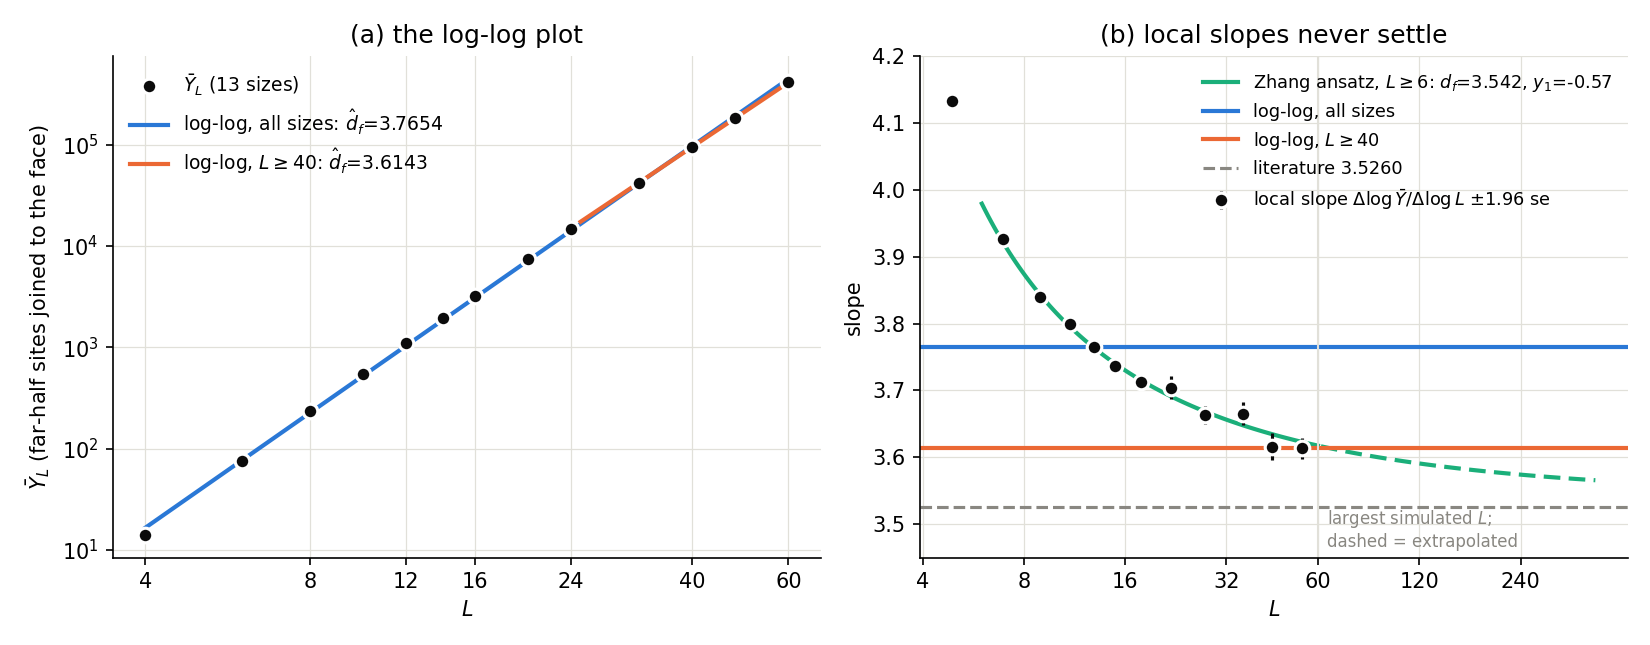
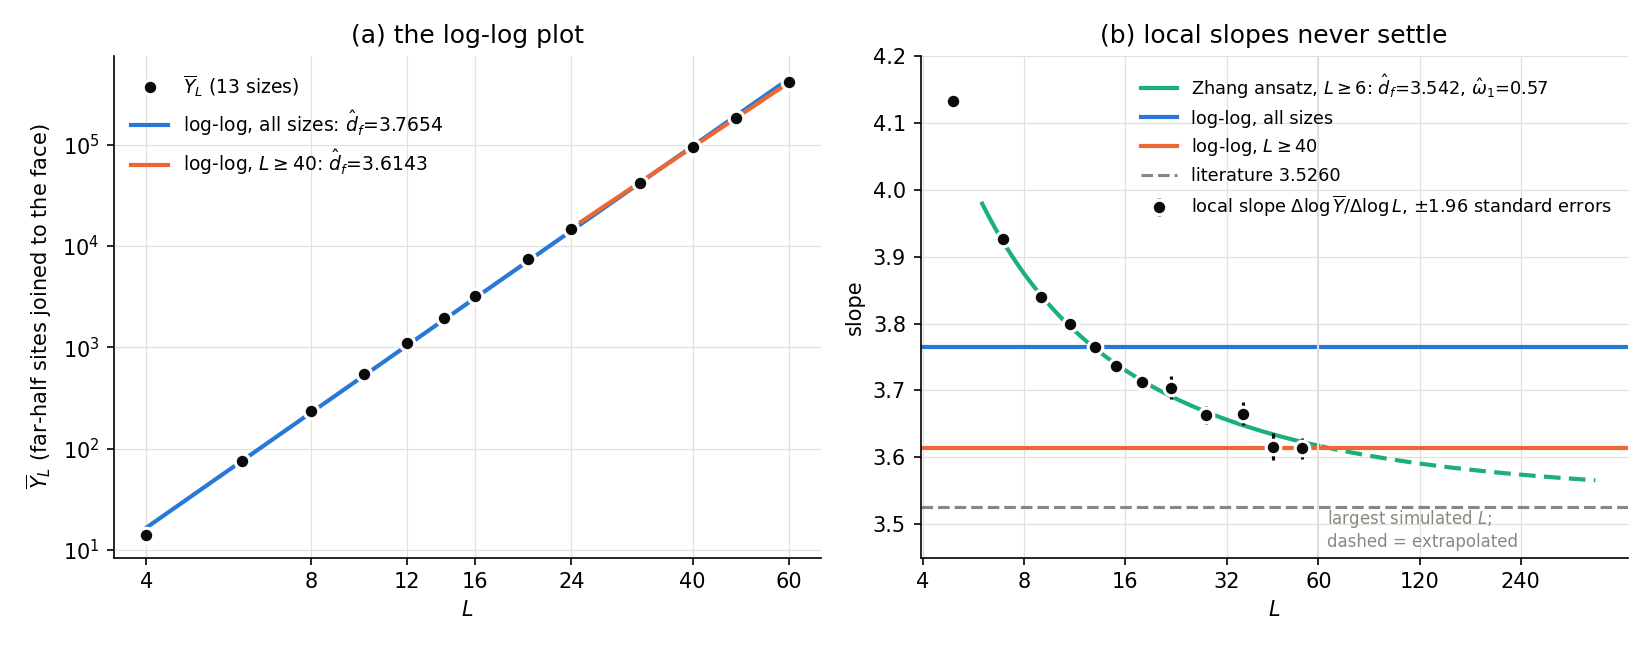
relabel the d=5 figure: overline Y, omega_1 for Zhang's -y_1, no 'se'

diff --git a/experiments/43_lit_zhang2020_df_d4_d5/diagnose_d5.py b/experiments/43_lit_zhang2020_df_d4_d5/diagnose_d5.py
@@ -78,12 +78,12 @@ def plot(out: Path, L: np.ndarray, y: np.ndarray, sl: np.ndarray, lmin_window: f
     g_win, c_win = ols(L[w], y[w])
     x = np.geomspace(L[0], L[-1], 200)
 
-    ax.plot(L, y, "o", ms=7, color=_INK, mec="white", mew=1.5, zorder=3, label=r"$\bar Y_L$ (13 sizes)")
+    ax.plot(L, y, "o", ms=7, color=_INK, mec="white", mew=1.5, zorder=3, label=r"$\overline{Y}_L$ (13 sizes)")
     ax.plot(x, np.exp(c_full) * x ** g_full, lw=2, color=_BLUE, label=rf"log-log, all sizes: $\hat d_f$={g_full:.4f}")
     xw = np.geomspace(L[w][0] / 1.6, L[-1], 50)
     ax.plot(xw, np.exp(c_win) * xw ** g_win, lw=2, color=_ORANGE,
             label=rf"log-log, $L\geq{lmin_window:.0f}$: $\hat d_f$={g_win:.4f}")
-    ax.set(xscale="log", yscale="log", xlabel="$L$", ylabel=r"$\bar Y_L$ (far-half sites joined to the face)",
+    ax.set(xscale="log", yscale="log", xlabel="$L$", ylabel=r"$\overline{Y}_L$ (far-half sites joined to the face)",
            title="(a) the log-log plot")
     ax.set_xticks(L[::2], [f"{v:.0f}" for v in L[::2]])
     ax.minorticks_off()
@@ -93,7 +93,7 @@ def plot(out: Path, L: np.ndarray, y: np.ndarray, sl: np.ndarray, lmin_window: f
     slope = np.diff(np.log(y)) / np.diff(np.log(L))
     err = 1.96 * np.hypot(sl[1:], sl[:-1]) / np.diff(np.log(L))
     bx.errorbar(mid, slope, yerr=err, fmt="o", ms=7, color=_INK, mec="white", mew=1.5, capsize=0, zorder=3,
-                label=r"local slope $\Delta\log\bar Y/\Delta\log L$ $\pm1.96$ se")
+                label=r"local slope $\Delta\log\overline{Y}/\Delta\log L$, $\pm1.96$ standard errors")
     k = L >= ZHANG_LM
     f = lambda v, g, a0, a1, y1: v ** g * (a0 + a1 * v ** y1)  # noqa: E731
     q, _ = curve_fit(f, L[k], y[k], p0=[3.5, 1, -1, -0.5], sigma=(y * sl)[k], absolute_sigma=True, maxfev=200000)
@@ -101,7 +101,7 @@ def plot(out: Path, L: np.ndarray, y: np.ndarray, sl: np.ndarray, lmin_window: f
     eff = q[0] + q[2] * q[3] * xz ** q[3] / (q[1] + q[2] * xz ** q[3])
     inside = xz <= L[-1]
     bx.plot(xz[inside], eff[inside], lw=2, color=_AQUA,
-            label=rf"Zhang ansatz, $L\geq{ZHANG_LM}$: $d_f$={q[0]:.3f}, $y_1$={q[3]:.2f}")
+            label=rf"Zhang ansatz, $L\geq{ZHANG_LM}$: $\hat d_f$={q[0]:.3f}, $\hat\omega_1$={-q[3]:.2f}")
     bx.plot(xz[~inside], eff[~inside], lw=2, ls=(0, (4, 2)), color=_AQUA)  # extrapolation past the data
     bx.axhline(g_full, lw=2, color=_BLUE, label="log-log, all sizes")
     bx.axhline(g_win, lw=2, color=_ORANGE, label=rf"log-log, $L\geq{lmin_window:.0f}$")
